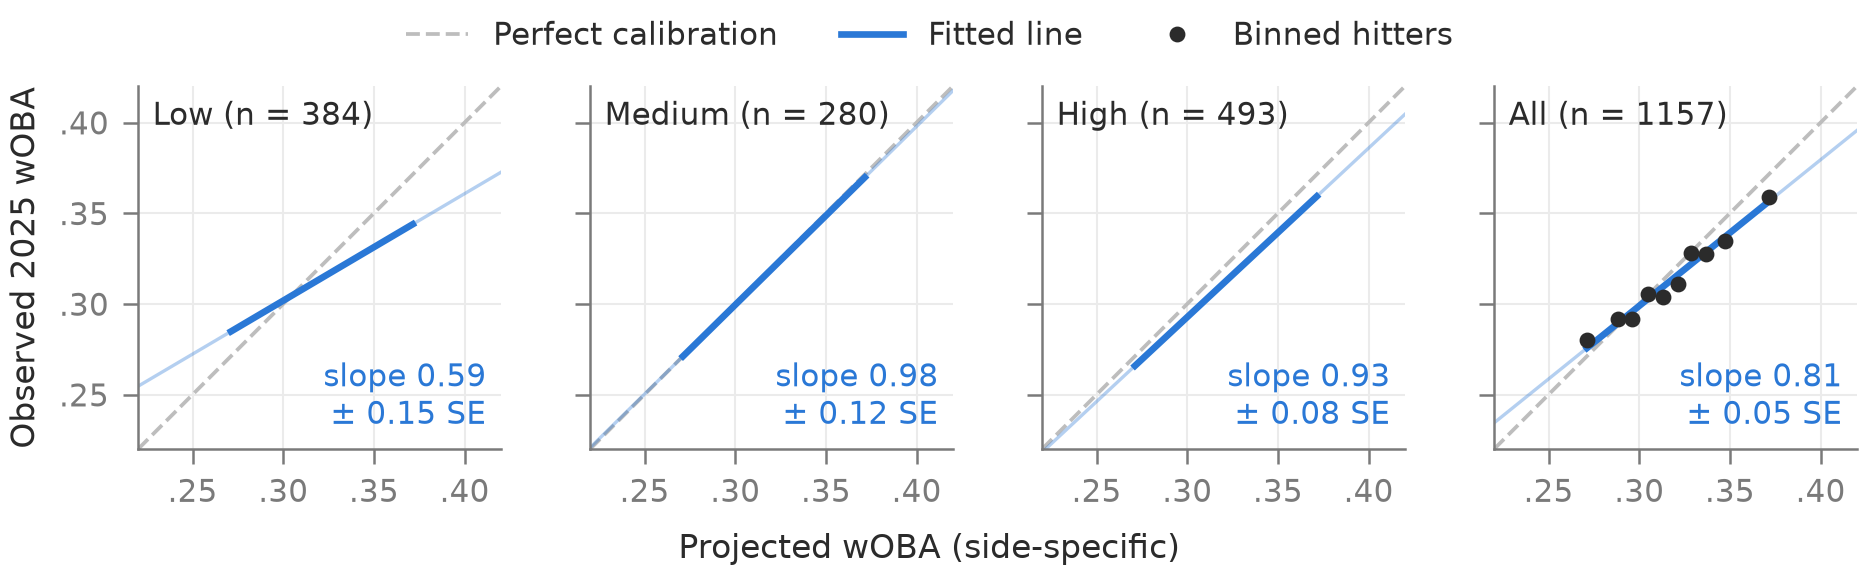
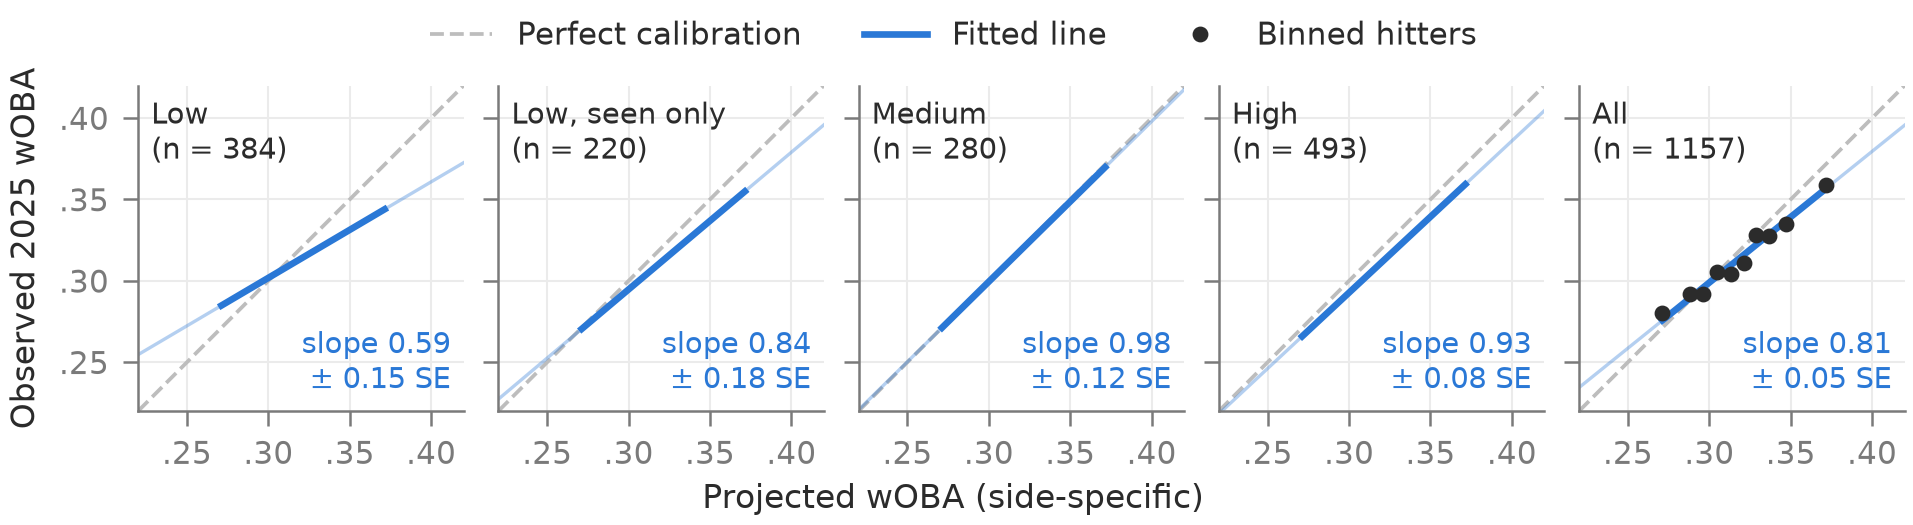
Add seen-only low stratum to Results figures and calibration text
Strata figure and calibration figure gain a 'Low, seen only' row/panel
(full low stratum kept as the pre-specified test). Rescore now covers
floors 10 and 50 and seen-only calibration (slope 0.84 vs 0.59).

diff --git a/paper/draft3/main.tex b/paper/draft3/main.tex
@@ -165,7 +165,7 @@ The empirical Bayes baseline takes a hitter's wOBA against each hand over the pr
 \label{sec:test}
 
 % Source: model_v1_claim1_scores_min_pa_sweep_clean_dim64_final.csv; paired CSV; verdict JSON;
-% results/paper_draft3/seen_only_rescore.csv (population "all" reproduces Table 1).
+% results/paper_draft3/seen_only_rescore.csv (population "all" reproduces Table 1 and the min-PA sweep at floors 10 and 50).
 The 2025 results by prior exposure can be seen in Table~\ref{tab:test} and Figure~\ref{fig:strata}. The low stratum was specified in advance as the test. There the model had lower error and higher rank correlation than both baselines, but every interval spans zero, so it did not pass. Further analysis was exploratory.
 
 \begin{table}[!ht]
@@ -188,23 +188,24 @@ All & 1157 & 0.0452 & 0.0453 & 0.0460 & 0.47 & 0.42 & 0.40 \\\bottomrule
 
 Across all 1,157 units the model's RMSE is 0.0452 against 0.0453 for the boosted baseline and 0.0460 for empirical Bayes, and both difference intervals include zero. Its weighted rank correlation is 0.47 against 0.42 and 0.40, and those intervals, 0.011 to 0.089 and 0.015 to 0.125, exclude zero. In the medium stratum the model beats both baselines on both measures, with all four intervals excluding zero. Its rank correlation is 0.42 against 0.28 for the boosted baseline and 0.22 for empirical Bayes, and its RMSE is about 2 points of wOBA below the boosted baseline and 4 below empirical Bayes. In the high stratum the three methods are even.
 
-Of the low stratum's 384 units, 164 (43\%) belong to hitters absent from the training seasons. Restricted to the other 220 units (153 batters), the model's RMSE is 0.0588 against 0.0617 for the boosted baseline and 0.0630 for empirical Bayes, with differences of $-0.0029$ (interval $-0.0053$ to $-0.0005$) and $-0.0043$ ($-0.0070$ to $-0.0016$). Its rank correlation is 0.23 against 0.17 and 0.11. That interval excludes zero against empirical Bayes (0.002 to 0.258) but not against the boosted baseline ($-0.070$ to 0.188).
+Of the low stratum's 384 units, 164 (43\%) belong to hitters absent from the training seasons. Restricted to the other 220 units (153 batters), the model's RMSE is 0.0588 against 0.0617 for the boosted baseline and 0.0630 for empirical Bayes, with differences of $-0.0029$ (interval $-0.0053$ to $-0.0005$) and $-0.0043$ ($-0.0070$ to $-0.0016$). Its rank correlation is 0.23 against 0.17 and 0.11. That interval excludes zero against empirical Bayes (0.002 to 0.258) but not against the boosted baseline ($-0.070$ to 0.188). At a 50 PA floor the RMSE difference against the boosted baseline is $-0.0041$ ($-0.0072$ to $-0.0012$).
 
 \begin{figure}[!ht]
 \centering
 \includegraphics[width=0.72\linewidth]{fig_claim1_2025_strata.png}
-\caption{\toreview The model's 2025 margin over the boosted baseline on error and rank correlation by stratum, at evaluation floors of 10 and 50 PA. Raising the floor to 25 or 50 PA changes no stratum's outcome.}
+\caption{\toreview The model's 2025 margin over the boosted baseline on rank correlation and error by stratum, at evaluation floors of 10 and 50 PA, with 95\% intervals. A filled marker means the interval excludes zero in the model's favour. ``Low, seen only'' drops hitters absent from the training seasons. Raising the floor from 10 to 50 PA changes no row's outcome.}
 \label{fig:strata}
 \end{figure}
 
 % Source: results/v_chain_clean/paper_figures/fig_calibration_2025 source JSON;
-% measurement_ceiling_summary.json (coverage 0.8695, 1,149 units).
-A PA-weighted regression of each unit's observed 2025 wOBA on its projection gives a slope of 0.98 in the medium stratum, 0.93 in the high, and 0.59 in the low (Figure~\ref{fig:calibration}). Across all strata the slope is 0.81, below one by more than three standard errors. High-stratum projections averaged about 9 points of wOBA above the observed values and low-stratum projections about 7 points below. On 2024, the nominal 95\% intervals covered the observed value for 87\% of 1,149 units. Nearly all of their width comes from the sampling noise of the plate appearances, and the seed spread alone has a mean half-width of about 6 points.
+% measurement_ceiling_summary.json (coverage 0.8695, 1,149 units);
+% results/paper_draft3/seen_only_calibration.csv (seen-only low slope 0.8428, se 0.1769, pred 0.2939 vs obs 0.2896).
+A PA-weighted regression of each unit's observed 2025 wOBA on its projection gives a slope of 0.98 in the medium stratum, 0.93 in the high, and 0.59 in the low (Figure~\ref{fig:calibration}). Across all strata the slope is 0.81, below one by more than three standard errors. High-stratum projections averaged about 9 points of wOBA above the observed values and low-stratum projections about 7 points below. Restricted to hitters seen in training, the low-stratum slope is 0.84 (standard error 0.18) and its projections average about 4 points above the observed values, so most of the low stratum's miscalibration comes from hitters the model had never seen. On 2024, the nominal 95\% intervals covered the observed value for 87\% of 1,149 units. Nearly all of their width comes from the sampling noise of the plate appearances, and the seed spread alone has a mean half-width of about 6 points.
 
 \begin{figure}[!ht]
 \centering
 \includegraphics[width=0.95\linewidth]{fig_calibration_2025.png}
-\caption{\toreview Calibration of 2025 side-specific projections by stratum, as the PA-weighted regression of observed on projected wOBA. The dashed diagonal is perfect calibration.}
+\caption{\toreview Calibration of 2025 side-specific projections by stratum, as the PA-weighted regression of observed on projected wOBA, with the low stratum also shown for hitters seen in training only. The dashed diagonal is perfect calibration.}
 \label{fig:calibration}
 \end{figure}
 

diff --git a/paper/draft3/part2.tex b/paper/draft3/part2.tex
@@ -4,7 +4,7 @@
 \label{sec:test}
 
 % Source: model_v1_claim1_scores_min_pa_sweep_clean_dim64_final.csv; paired CSV; verdict JSON;
-% results/paper_draft3/seen_only_rescore.csv (population "all" reproduces Table 1).
+% results/paper_draft3/seen_only_rescore.csv (population "all" reproduces Table 1 and the min-PA sweep at floors 10 and 50).
 The 2025 results by prior exposure can be seen in Table~\ref{tab:test} and Figure~\ref{fig:strata}. The low stratum was specified in advance as the test. There the model had lower error and higher rank correlation than both baselines, but every interval spans zero, so it did not pass. Further analysis was exploratory.
 
 \begin{table}[!ht]
@@ -27,23 +27,24 @@ All & 1157 & 0.0452 & 0.0453 & 0.0460 & 0.47 & 0.42 & 0.40 \\\bottomrule
 
 Across all 1,157 units the model's RMSE is 0.0452 against 0.0453 for the boosted baseline and 0.0460 for empirical Bayes, and both difference intervals include zero. Its weighted rank correlation is 0.47 against 0.42 and 0.40, and those intervals, 0.011 to 0.089 and 0.015 to 0.125, exclude zero. In the medium stratum the model beats both baselines on both measures, with all four intervals excluding zero. Its rank correlation is 0.42 against 0.28 for the boosted baseline and 0.22 for empirical Bayes, and its RMSE is about 2 points of wOBA below the boosted baseline and 4 below empirical Bayes. In the high stratum the three methods are even.
 
-Of the low stratum's 384 units, 164 (43\%) belong to hitters absent from the training seasons. Restricted to the other 220 units (153 batters), the model's RMSE is 0.0588 against 0.0617 for the boosted baseline and 0.0630 for empirical Bayes, with differences of $-0.0029$ (interval $-0.0053$ to $-0.0005$) and $-0.0043$ ($-0.0070$ to $-0.0016$). Its rank correlation is 0.23 against 0.17 and 0.11. That interval excludes zero against empirical Bayes (0.002 to 0.258) but not against the boosted baseline ($-0.070$ to 0.188).
+Of the low stratum's 384 units, 164 (43\%) belong to hitters absent from the training seasons. Restricted to the other 220 units (153 batters), the model's RMSE is 0.0588 against 0.0617 for the boosted baseline and 0.0630 for empirical Bayes, with differences of $-0.0029$ (interval $-0.0053$ to $-0.0005$) and $-0.0043$ ($-0.0070$ to $-0.0016$). Its rank correlation is 0.23 against 0.17 and 0.11. That interval excludes zero against empirical Bayes (0.002 to 0.258) but not against the boosted baseline ($-0.070$ to 0.188). At a 50 PA floor the RMSE difference against the boosted baseline is $-0.0041$ ($-0.0072$ to $-0.0012$).
 
 \begin{figure}[!ht]
 \centering
 \includegraphics[width=0.72\linewidth]{fig_claim1_2025_strata.png}
-\caption{\toreview The model's 2025 margin over the boosted baseline on error and rank correlation by stratum, at evaluation floors of 10 and 50 PA. Raising the floor to 25 or 50 PA changes no stratum's outcome.}
+\caption{\toreview The model's 2025 margin over the boosted baseline on rank correlation and error by stratum, at evaluation floors of 10 and 50 PA, with 95\% intervals. A filled marker means the interval excludes zero in the model's favour. ``Low, seen only'' drops hitters absent from the training seasons. Raising the floor from 10 to 50 PA changes no row's outcome.}
 \label{fig:strata}
 \end{figure}
 
 % Source: results/v_chain_clean/paper_figures/fig_calibration_2025 source JSON;
-% measurement_ceiling_summary.json (coverage 0.8695, 1,149 units).
-A PA-weighted regression of each unit's observed 2025 wOBA on its projection gives a slope of 0.98 in the medium stratum, 0.93 in the high, and 0.59 in the low (Figure~\ref{fig:calibration}). Across all strata the slope is 0.81, below one by more than three standard errors. High-stratum projections averaged about 9 points of wOBA above the observed values and low-stratum projections about 7 points below. On 2024, the nominal 95\% intervals covered the observed value for 87\% of 1,149 units. Nearly all of their width comes from the sampling noise of the plate appearances, and the seed spread alone has a mean half-width of about 6 points.
+% measurement_ceiling_summary.json (coverage 0.8695, 1,149 units);
+% results/paper_draft3/seen_only_calibration.csv (seen-only low slope 0.8428, se 0.1769, pred 0.2939 vs obs 0.2896).
+A PA-weighted regression of each unit's observed 2025 wOBA on its projection gives a slope of 0.98 in the medium stratum, 0.93 in the high, and 0.59 in the low (Figure~\ref{fig:calibration}). Across all strata the slope is 0.81, below one by more than three standard errors. High-stratum projections averaged about 9 points of wOBA above the observed values and low-stratum projections about 7 points below. Restricted to hitters seen in training, the low-stratum slope is 0.84 (standard error 0.18) and its projections average about 4 points above the observed values, so most of the low stratum's miscalibration comes from hitters the model had never seen. On 2024, the nominal 95\% intervals covered the observed value for 87\% of 1,149 units. Nearly all of their width comes from the sampling noise of the plate appearances, and the seed spread alone has a mean half-width of about 6 points.
 
 \begin{figure}[!ht]
 \centering
 \includegraphics[width=0.95\linewidth]{fig_calibration_2025.png}
-\caption{\toreview Calibration of 2025 side-specific projections by stratum, as the PA-weighted regression of observed on projected wOBA. The dashed diagonal is perfect calibration.}
+\caption{\toreview Calibration of 2025 side-specific projections by stratum, as the PA-weighted regression of observed on projected wOBA, with the low stratum also shown for hitters seen in training only. The dashed diagonal is perfect calibration.}
 \label{fig:calibration}
 \end{figure}
 

diff --git a/paper/draft3/make_figs3.py b/paper/draft3/make_figs3.py
@@ -88,14 +88,50 @@ def fig_reliability():
     save(fig, "fig_reliability.png")
 
 
+STRATUM_LABELS = {"low": "Low", "low_seen": "Low, seen only", "medium": "Medium", "high": "High", "all": "All"}
+
+
+# ------------------------------------------------------------------ 2a. margin over boosted baseline by stratum
+def fig_strata():
+    """Model minus boosted baseline by stratum at 10 and 50 PA floors, with the seen-only low row.
+    Filled marker = 95% interval excludes zero in the model's favour."""
+    d = pd.read_csv(RES / "paper_draft3/seen_only_rescore.csv")
+    d = d[d.opponent == "gbm_full"]
+    rows = [("all", "low"), ("seen_only", "low"), ("all", "medium"), ("all", "high")]
+    labels = ["Low", "Low, seen only", "Medium", "High"]
+    floors = {10: (SEQ_BLUES[2], -0.13), 50: (SEQ_BLUES[1], 0.13)}
+    fig, (a, b) = plt.subplots(1, 2, figsize=(6.5, 2.4), sharey=True)
+    for ax, m, good, title in ((a, "rank", lambda lo, hi: lo > 0, "Rank correlation, model minus boosted"),
+                               (b, "rmse", lambda lo, hi: hi < 0, "RMSE, model minus boosted")):
+        tidy(ax, grid="x")
+        ax.axvline(0, color=INK, lw=0.8)
+        for floor, (col, dy) in floors.items():
+            for i, (pop, st) in enumerate(rows):
+                r = d[(d.population == pop) & (d.stratum == st) & (d.min_eval_pa == floor)].iloc[0]
+                x, lo, hi = r[f"{m}_difference"], r[f"ci_low_{m}"], r[f"ci_high_{m}"]
+                ax.plot([lo, hi], [i + dy] * 2, color=col, lw=1.2)
+                ax.plot([x], [i + dy], "o", ms=4, color=col, mfc=col if good(lo, hi) else "white",
+                        label=f"Evaluation floor {floor} PA" if i == 0 else None)
+        ax.set_title(title, fontsize=8)
+    a.set_yticks(range(len(rows)), labels)
+    a.invert_yaxis()
+    a.set_xlabel("Difference (positive favours model)")
+    b.set_xlabel("Difference (negative favours model)")
+    fig.legend(*a.get_legend_handles_labels(), loc="upper center", ncol=2, bbox_to_anchor=(0.5, 1.07))
+    fig.tight_layout()
+    save(fig, "fig_claim1_2025_strata.png")
+
+
 # ------------------------------------------------------------------ 2. calibration 2025
 def fig_calibration_2025():
     cal = pd.read_csv(RES / "model_evaluation_final_clean/calibration.csv").set_index("stratum")
+    seen = pd.read_csv(RES / "paper_draft3/seen_only_calibration.csv")
+    cal.loc["low_seen"] = seen[(seen.population == "seen_only") & (seen.stratum == "low")].iloc[0]
     bins = pd.read_csv(RES / "model_evaluation_final_clean/calibration_reliability.csv")
     span = (bins["mean_pred"].min(), bins["mean_pred"].max())
     lim = (0.22, 0.42)
-    fig, axes = plt.subplots(1, 4, figsize=(6.5, 1.95), sharex=True, sharey=True)
-    for ax, stratum in zip(axes, ["low", "medium", "high", "all"]):
+    fig, axes = plt.subplots(1, 5, figsize=(6.5, 1.75), sharex=True, sharey=True)
+    for ax, stratum in zip(axes, ["low", "low_seen", "medium", "high", "all"]):
         r = cal.loc[stratum]
         tidy(ax, grid="both")
         ax.plot(lim, lim, color=FAINT, lw=0.9, ls="--", label="Perfect calibration")
@@ -105,10 +141,10 @@ def fig_calibration_2025():
         ax.plot(xs, r["intercept"] + r["slope"] * xs, color=MODEL, lw=1.6, label="Fitted line")
         if stratum == "all":
             ax.plot(bins["mean_pred"], bins["mean_obs"], "o", ms=2.8, color=INK, label="Binned hitters")
-        ax.text(0.04, 0.96, f"{stratum.capitalize()} (n = {int(r['n_hitters'])})", transform=ax.transAxes,
-                va="top", fontsize=7.5)
+        ax.text(0.04, 0.96, f"{STRATUM_LABELS[stratum]}\n(n = {int(r['n_hitters'])})", transform=ax.transAxes,
+                va="top", fontsize=7)
         ax.text(0.96, 0.04, f"slope {r['slope']:.2f}\n± {r['slope_se']:.2f} SE", transform=ax.transAxes,
-                va="bottom", ha="right", fontsize=7.5, color=MODEL)
+                va="bottom", ha="right", fontsize=7, color=MODEL)
         ax.set_xlim(lim)
         ax.set_ylim(lim)
         ax.set_xticks([0.25, 0.30, 0.35, 0.40])
@@ -425,7 +461,7 @@ def fig_ceiling():
     save(fig, "fig_ceiling.png")
 
 
-FIGS = {"ceiling": fig_ceiling, "reliability": fig_reliability, "calibration": fig_calibration_2025, "head_partial": fig_head_partial,
+FIGS = {"strata": fig_strata, "ceiling": fig_ceiling, "reliability": fig_reliability, "calibration": fig_calibration_2025, "head_partial": fig_head_partial,
         "disagreement": fig_disagreement, "surfaces": fig_surfaces, "velocity": fig_velocity,
         "miss_damage": fig_miss_damage, "level_query": fig_level_query}
 

diff --git a/src/analysis/paper_seen_only_rescore.py b/src/analysis/paper_seen_only_rescore.py
@@ -4,7 +4,7 @@ import json, time
 from pathlib import Path
 import pandas as pd
 from src.analysis import baseline_ladder_gbm as gbm
-from src.analysis import baseline_ladder_report, claim1_eval as evaluation, model_v1_ablation_report
+from src.analysis import baseline_ladder_report, claim1_eval as evaluation, model_v1_ablation_report, model_evaluation_eval
 
 t0 = time.time()
 SEASON, LABEL = 2025, "clean_dim64_final"
@@ -16,17 +16,29 @@ proc = gbm.season_process(pd.read_parquet("data/processed/pitch_events_labeled.p
 preds, _ = baseline_ladder_report.build_predictions(pa_df, SEASON, params, proc, seed=0)
 preds[LABEL] = model_v1_ablation_report.load_predictions(
     "results/model_v1/model_v1_predictions_clean_dim64_final.csv")
-frames = {k: evaluation.build_eval_frame(pa_df, p, SEASON)[0] for k, p in preds.items()}
-
 vocab = {int(b) for b in json.load(open("data/processed/phase_d5_clean_final/manifest.json"))["vocabulary"]}
-seen = {k: f[f["batter"].isin(vocab)] for k, f in frames.items()}
-out = []
-for tag, fr in (("all", frames), ("seen_only", seen)):
-    c = model_v1_ablation_report.compare(fr, name=LABEL, seed=0)
-    c.insert(0, "population", tag)
-    out.append(c)
+out, calib = [], []
+for floor in (10, 50):  # the two floors the strata figure draws
+    frames = {k: evaluation.build_eval_frame(pa_df, p, SEASON, min_eval_pa=floor)[0] for k, p in preds.items()}
+    seen = {k: f[f["batter"].isin(vocab)] for k, f in frames.items()}
+    for tag, fr in (("all", frames), ("seen_only", seen)):
+        c = model_v1_ablation_report.compare(fr, name=LABEL, seed=0)
+        c.insert(0, "population", tag)
+        c.insert(1, "min_eval_pa", floor)
+        out.append(c)
+        if floor == 10:
+            k = model_evaluation_eval.calibration(fr[LABEL])[0]
+            k.insert(0, "population", tag)
+            calib.append(k)
 table = pd.concat(out, ignore_index=True)
+calib = pd.concat(calib, ignore_index=True)
+# "all" at floor 10 must match Table 1 and calibration.csv, or the seen-only rows mean nothing
+ref = pd.read_csv("results/model_evaluation_final_clean/calibration.csv").set_index("stratum").slope
+got = calib[calib.population == "all"].set_index("stratum").slope
+assert (got - ref).abs().max() < 1e-9, (got, ref)
 Path("results/paper_draft3").mkdir(exist_ok=True)
 table.to_csv("results/paper_draft3/seen_only_rescore.csv", index=False)
+calib.to_csv("results/paper_draft3/seen_only_calibration.csv", index=False)
 print(table.to_string(index=False, float_format="%.4f"))
+print(calib.to_string(index=False, float_format="%.4f"))
 print(f"\nelapsed {time.time() - t0:.0f}s")
